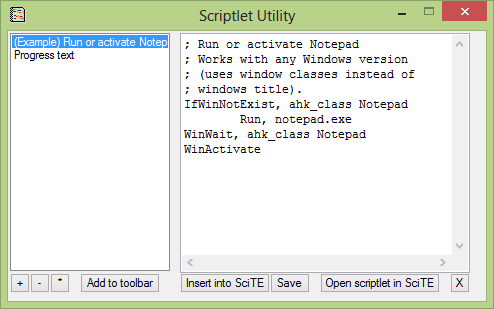
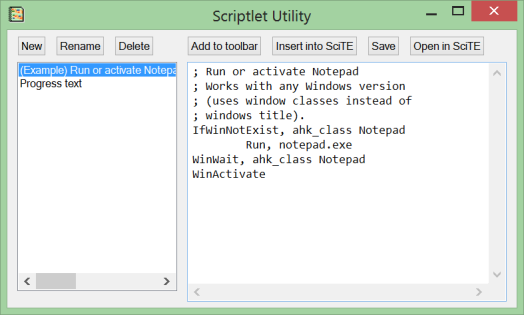
Update Scriptlet Utility docu

Changed region(s): [[0.0, 0.0, 1.0, 1.0]]

diff --git a/pages/slutil.htm b/pages/slutil.htm
@@ -13,15 +13,14 @@ script you are writing. To open it, click on its icon in the toolbar
 (<img src="icon/slutil.ico" alt="" border="0"/>).</p>
 <img src="img/slutil.png" alt="" border="0"/>
 <ul>
-<li>The + button creates a new scriptlet.</li>
-<li>The - button deletes the selected scriptlet.</li>
-<li>The * button renames the selected scriptlet.</li>
+<li>The New button creates a new scriptlet.</li>
+<li>The Rename button renames the selected scriptlet.</li>
+<li>The Delete button deletes the selected scriptlet.</li>
 <li>The &quot;Add to toolbar&quot; attaches a new button to the toolbar that inserts the selected scriptlet into
   the script.</li>
 <li>The &quot;Insert into SciTE&quot; inserts the scriptlet into the script you are editing.</li>
 <li>The &quot;Save&quot; button saves any modifications you made to the selected scriptlet.</li>
-<li>The &quot;Open scriptlet in SciTE&quot; opens the scriptlet in SciTE.</li>
-<li>The X button closes the window.</li>
+<li>The &quot;Open in SciTE&quot; button opens the scriptlet in SciTE.</li>
 </ul>
 <h2>Using attached toolbar scriptlets</h2>
 <p>Fortunately, it's easy enough. Find the scriptlet you want in the toolbar
